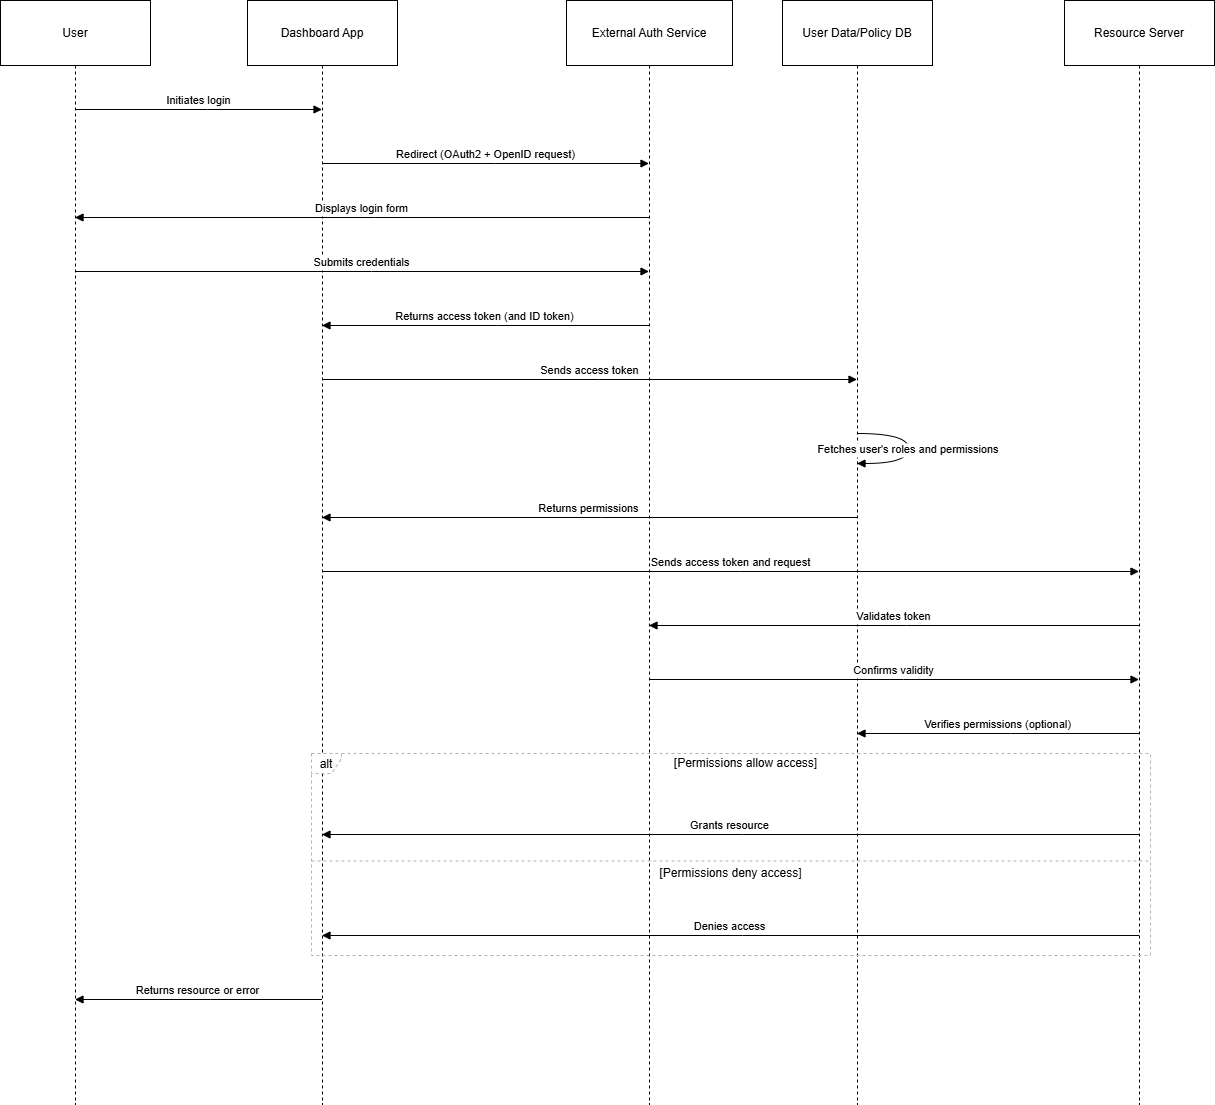
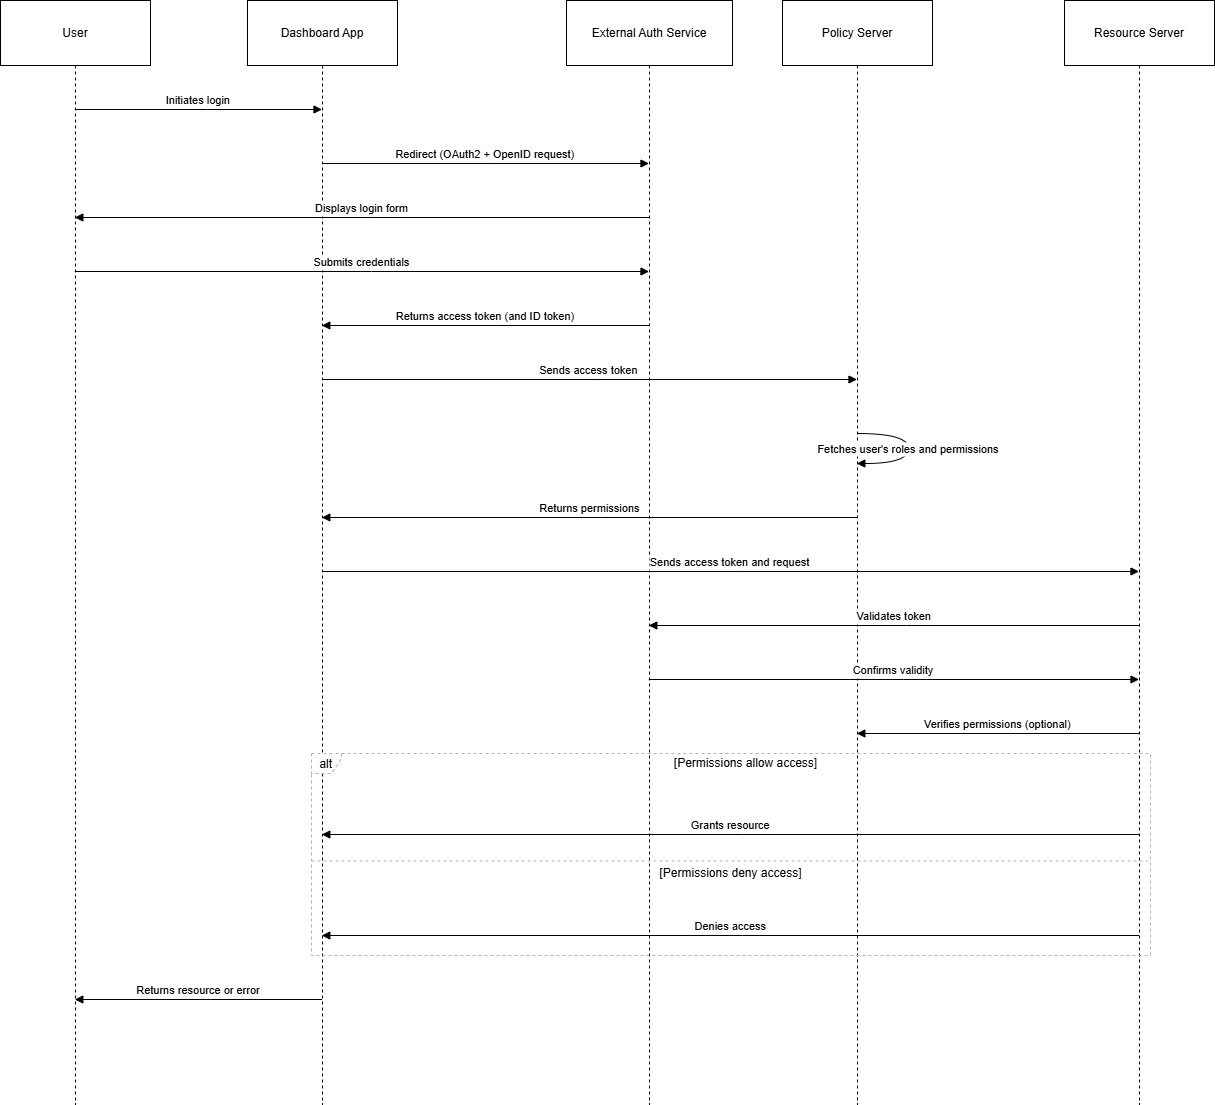
some md modifications

diff --git a/oauth2/oauth2.md b/oauth2/oauth2.md
@@ -1,53 +1,116 @@
-# Authentication and Authorization
+# Authentication and Authorization Process
 
-**1.User Accesses the Application:**
+This document provides a detailed explanation of the authentication and authorization flow, combining OAuth2 principles, OpenID Connect.
 
-The Resource Owner (typically a user) accesses the Application (client) wanting to use some protected resources.
+---
 
-**2.Application Redirects User to Authorization Server:**
+## **1. User Accesses the Application**
+The **User** (Resource Owner) initiates the login process by accessing the **Dashboard App** (Client Application), wanting to use protected resources.
 
-The Application redirects the Resource Owner to the Authorization Server(via a URL) with an authorization request, including the `client_id`, `redirect_uri`, `response_type=code`, and `scope`.
+---
 
-The URL contains details like:
+## **2. Application Redirects User to Authorization Server**
+The **Dashboard App** redirects the **User** to the **External Auth Service** (Authorization Server) with an authorization request containing:
+- `client_id`: Identifies the application.
+- `redirect_uri`: The URL where the user will be redirected post-authentication.
+- `response_type=code`: Requests an authorization code.
+- `scope`: Specifies access levels (e.g., profile, email, etc.).
 
--   `client_id`: Identifies the application.
--   `redirect_uri`: A URL in your app where the user will be redirected after successful authentication and authorization.
--   `response_type=code`: Indicates that the app wants an authorization code.
--   `scope`: Defines the level of access being requested (e.g., profile, email, etc.).
+**What happens here?**
+- The **User** is redirected to the login page hosted by the **External Auth Service**.
 
-**3.User Authenticates and Authorizes Access :**
+---
 
--   The user logs in by entering their credentials (e.g., username, password) on the Authorization Server.
--   Once authenticated, the server asks the user to grant permission for the requested scopes. For example:
-    -   Access to their profile information.
-    -   Access to their email address.
-        What Happens Here?
--   If the user approves, the Authorization Server moves to the next step.
--   If the user denies, the flow ends, and the application does not receive any token.
+## **3. User Authenticates and Authorizes Access**
+- The **User** enters their credentials (username, password) on the **External Auth Service**.
+- After authentication, the **User** is asked to grant permission for the requested scopes:
+  - Access to their profile.
+  - Access to their email address.
 
-**4.Authorization Server Redirects Back to Application with Authorization Code:**
+### **Decision Flow**
+- ✅ If the user approves → The flow continues.
+- ❌ If the user denies → The flow stops, and the **Dashboard App** does not receive any token.
 
-After successful authentication and authorization, the Authorization Server redirects the user back to the Application's `redirect_uri` with an `authorization_code`. The Authorization Code is a temporary code that the client can use to exchange for an Access Token. This code is short-lived and can only be used once.
+---
 
-**5.Application Exchanges Authorization Code for Access Token:**
+## **4. Authorization Server Redirects Back to Application with Authorization Code**
+After successful authentication and authorization, the **External Auth Service** redirects the **User** to the **Dashboard App**'s `redirect_uri` with an `authorization_code`.
 
-The Application sends the `authorization_code`, `client_id`, `client_secret`, and `redirect_uri` to the Authorization Server in a back-channel request to obtain an Access Token.
+This Authorization Code:
+- Is short-lived.
+- Can only be used once.
+- Needs to be exchanged for an Access Token.
 
--   The `authorization_code` received earlier.
--   The `client_id` and `client_secret` to authenticate the client.
--   The original `redirect_uri` for verification.
+---
 
-**6.Authorization Server Issues Access Token:**
+## **5. Application Exchanges Authorization Code for Access Token**
+The **Dashboard App** sends a back-channel request to the **External Auth Service** to exchange the `authorization_code` for an Access Token.
+This request includes:
+- `authorization_code`: The temporary code received earlier.
+- `client_id` and `client_secret`: Authenticates the client.
+- `redirect_uri`: Ensures validity.
 
-The Authorization Server validates the Authorization Code and returns an Access Token (and optionally a Refresh Token) to the Application.
+---
 
-**7.Request Resource with Access Token:**
+## **6. Authorization Server Issues Access Token**
+The **External Auth Service** validates the `authorization_code` and returns:
+- An **Access Token** (used to access protected resources).
+- An **ID Token** (optional, for OpenID Connect authentication).
+- A **Refresh Token** (optional, for obtaining a new Access Token without re-authenticating).
 
-The Application sends the Access Token to the Resource Server to request protected resources.
+---
 
-**8.Return Resource:**
+## **7. Application Sends Access Token to Policy Server**
+The **Dashboard App** sends the Access Token to the **Policy Server** to fetch the user's roles and permissions.
 
-The Resource Server validates the Access Token and, if valid, returns the requested resource to the Application.
+- The **Policy Server** verifies the token and retrieves the user's roles and permissions.
+- It returns the permissions to the **Dashboard App**.
+
+---
+
+## **8. Request Resource with Access Token**
+The **Dashboard App** sends the Access Token along with a resource request to the **Resource Server**.
+
+---
+
+## **9. Resource Server Validates Token**
+The **Resource Server** performs:
+1. **Token Validation**:
+   - The **Resource Server** sends the token to the **Policy Server**.
+   - The **Policy Server** verifies the token's validity.
+   - If valid, the **Policy Server** confirms it.
+
+2. **Permissions Verification (Optional)**:
+   - The **Resource Server** checks if the user has the necessary permissions.
+
+---
+
+## **10. Access Control Decision**
+Based on the permissions:
+- ✅ **If permissions allow access** → The **Resource Server** grants access.
+- ❌ **If permissions deny access** → The **Resource Server** denies access.
+
+---
+
+## **11. Return Resource or Error**
+- If access is granted, the **Resource Server** returns the requested resource.
+- If access is denied, an error message is returned to the **Dashboard App**.
+
+---
+
+## **Summary of Flow**
+1. **User initiates login.**
+2. **Dashboard App redirects to External Auth Service.**
+3. **User authenticates and grants permissions.**
+4. **External Auth Service issues Authorization Code.**
+5. **Dashboard App exchanges Authorization Code for Access Token.**
+6. **Access Token is sent to the Policy Server for permission validation.**
+7. **Access Token is used to request resources from the Resource Server.**
+8. **Resource Server validates token and permissions.**
+9. **Access is either granted or denied based on permissions.**
+
+This ensures a secure authentication and authorization process using OAuth2, OpenID Connect.
+
 
 **Diagram**
 
